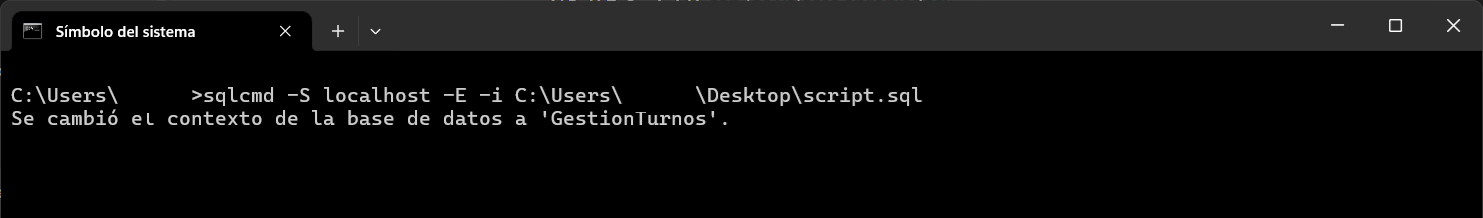
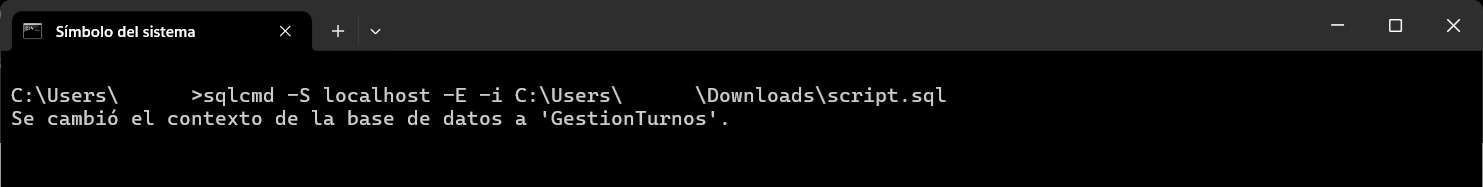
cambios generales

diff --git a/index.html b/index.html
@@ -15,7 +15,7 @@
 
             <p class="fs-5">Para corregir este problema debe hacer los siguientes pasos:</p>
 
-            <p class="fs-5">1°: Descargar el archivo sql que configura la base de datos. Una vez descargado el archivo, tiene que moverlo al escritorio. <a href="./download/script.sql">Descargar</a></p>
+            <p class="fs-5">1°: Descargar el archivo sql que configura la base de datos. <a href="./download/script.sql">Descargar</a></p>
 
             <p class="fs-5 mb-5">2°: Pulsar las teclas de Windows <span><svg xmlns="http://www.w3.org/2000/svg" width="16" height="16" fill="currentColor" class="bi bi-windows" viewBox="0 0 16 16">
                 <path d="M6.555 1.375 0 2.237v5.45h6.555zM0 13.795l6.555.933V8.313H0zm7.278-5.4.026 6.378L16 16V8.395zM16 0 7.33 1.244v6.414H16z"/>
@@ -37,7 +37,7 @@
                 <img src="./img/img3.png" class="img-fluid" alt="imagen de ventana de simbolo de sistema">
             </div>
 
-            <p class="fs-5 mb-5">5°: Por último, si no existe la base de datos, debe escribir el comando "sqlcmd -S localhost -E -i C:\Users\NombreDelUsuario\Desktop\script.sql", sin las comillas.</p>
+            <p class="fs-5 mb-5">5°: Por último, si no existe la base de datos, debe escribir el comando "sqlcmd -S localhost -E -i C:\Users\NombreDelUsuario\Downloads\script.sql", sin las comillas.</p>
  
             <div class="container mb-5">
                 <img src="./img/img4.png" class="img-fluid" alt="imagen de ventana de simbolo de sistema">
